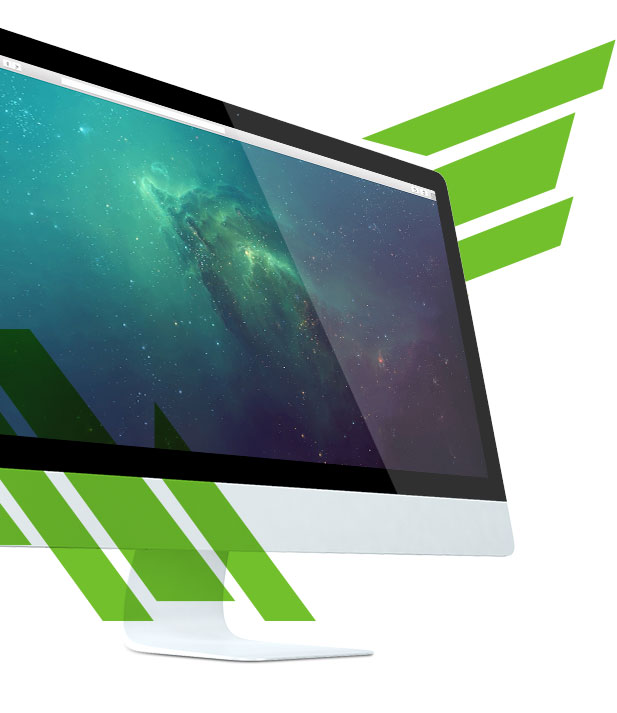
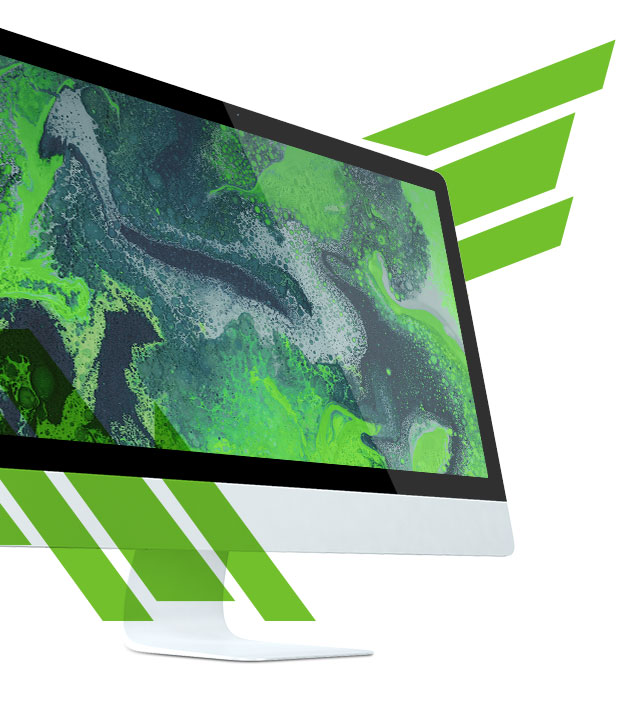
Update CustomSoftware Images (#79)
* Replace WebTech Logos and Deco Images

* Added missing /

diff --git a/css/main.sass b/css/main.sass
@@ -40,7 +40,7 @@ $screen-lg-min: 1200px
 @import _client-item
 @import _slider2
 
-@mixin prefix($property, $value, $prefixes: ()) 
+@mixin prefix($property, $value, $prefixes: ())
   @each $prefix in $prefixes
     #{'-' + $prefix + '-' + $property}: $value
   #{$property}: $value
@@ -246,7 +246,7 @@ h6
         color: $mid-gray
 
       p
-        color: $gray-9b 
+        color: $gray-9b
         padding-right: 18px
 
 
@@ -1106,7 +1106,7 @@ a.post-author-link:hover
   margin: 0 auto
 
 
-/* --- GIST Overrides --- *
+/* --- GIST Overrides --- */
 
 .blog-content
   .gist
@@ -1138,14 +1138,14 @@ a.post-author-link:hover
 @media (min-width: 1440px)
   .blog-post-header h1
     font-size: 46px
- 
+
 
 @media (min-width: 320px) and (max-width: 1440px)
   .blog-post-header h1
     font-size: 36px
 
   .tagline
-    padding: 0 19%    
+    padding: 0 19%
 
 @media (min-width: 320px) and (max-width: 960px)
   .video-header
@@ -1164,7 +1164,7 @@ a.post-author-link:hover
       z-index: -5
 
   .tagline
-    padding: 0 8%     
+    padding: 0 8%
 
   .blog-list-item
     width: 30%
@@ -1227,7 +1227,7 @@ a.post-author-link:hover
 
 
   .tagline
-    padding: 0 3% 
+    padding: 0 3%
 
     h1
       font-size: 2.8em
